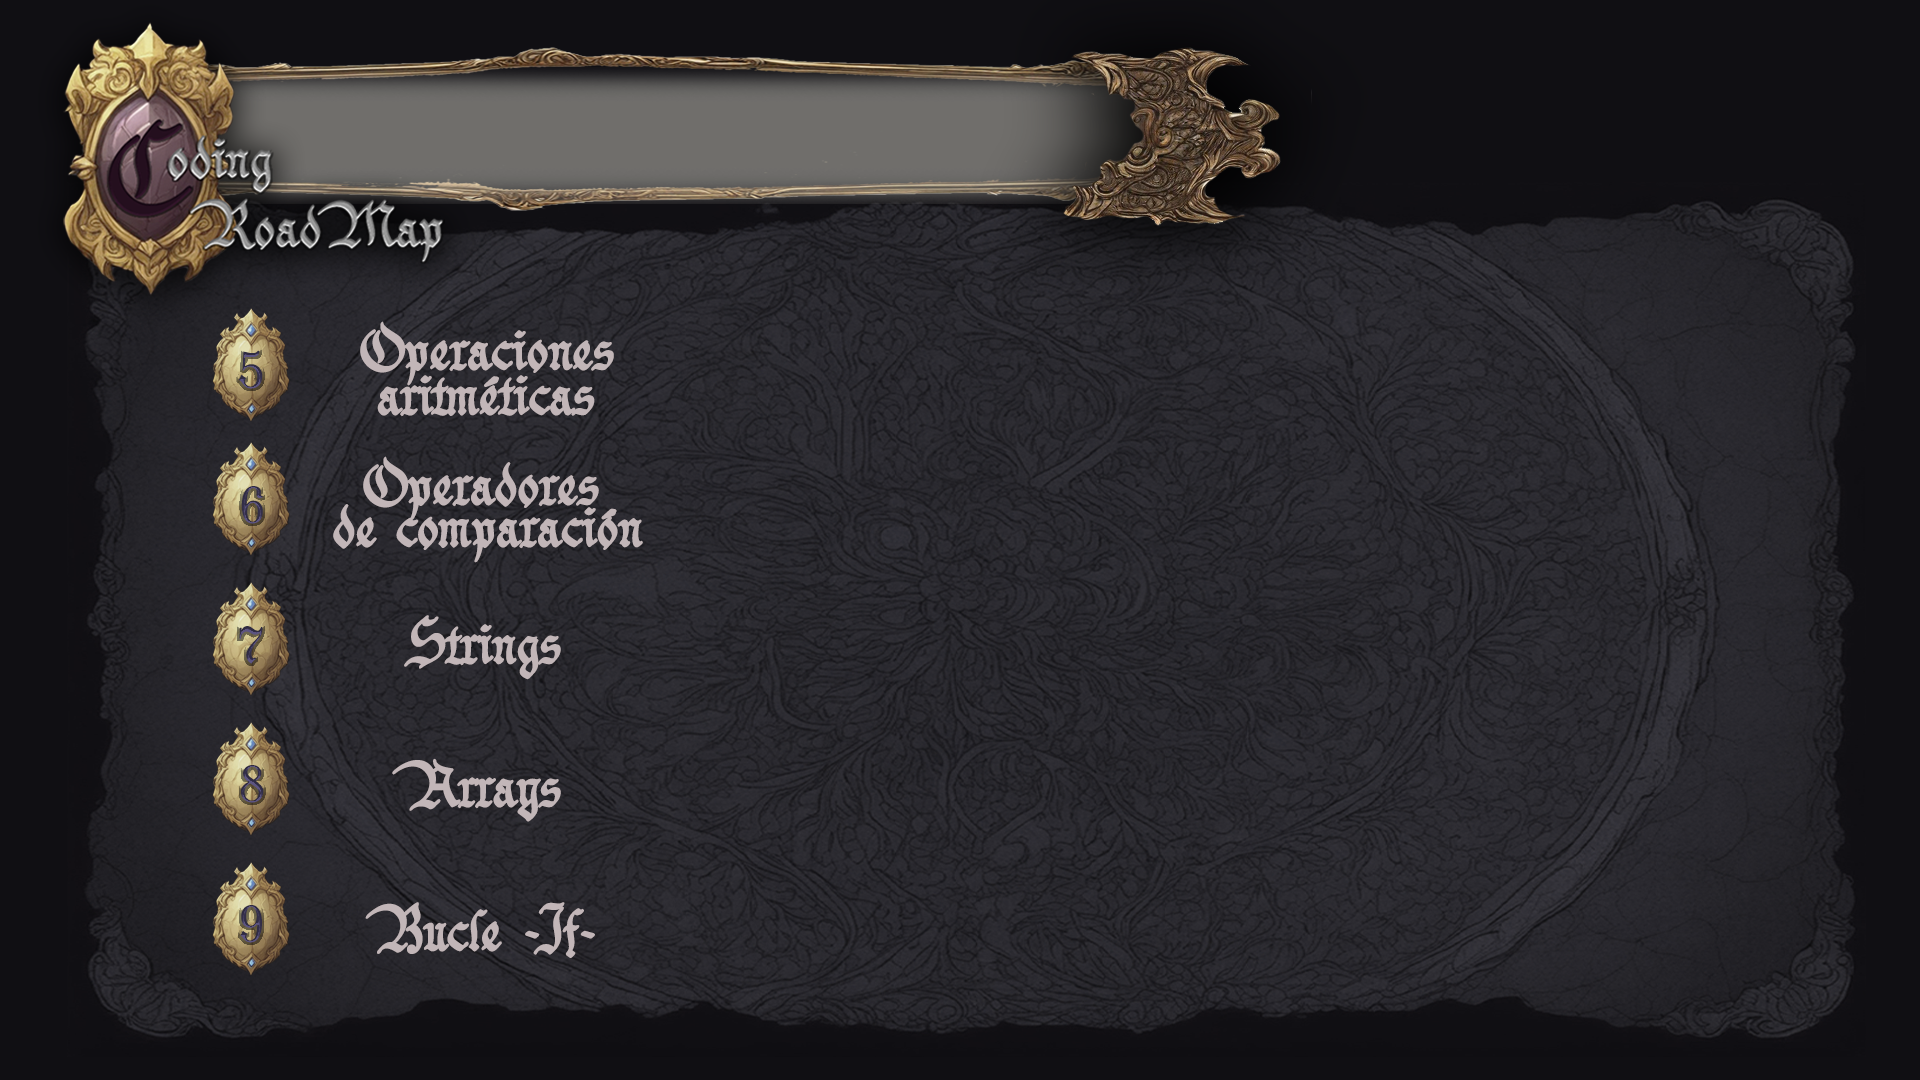
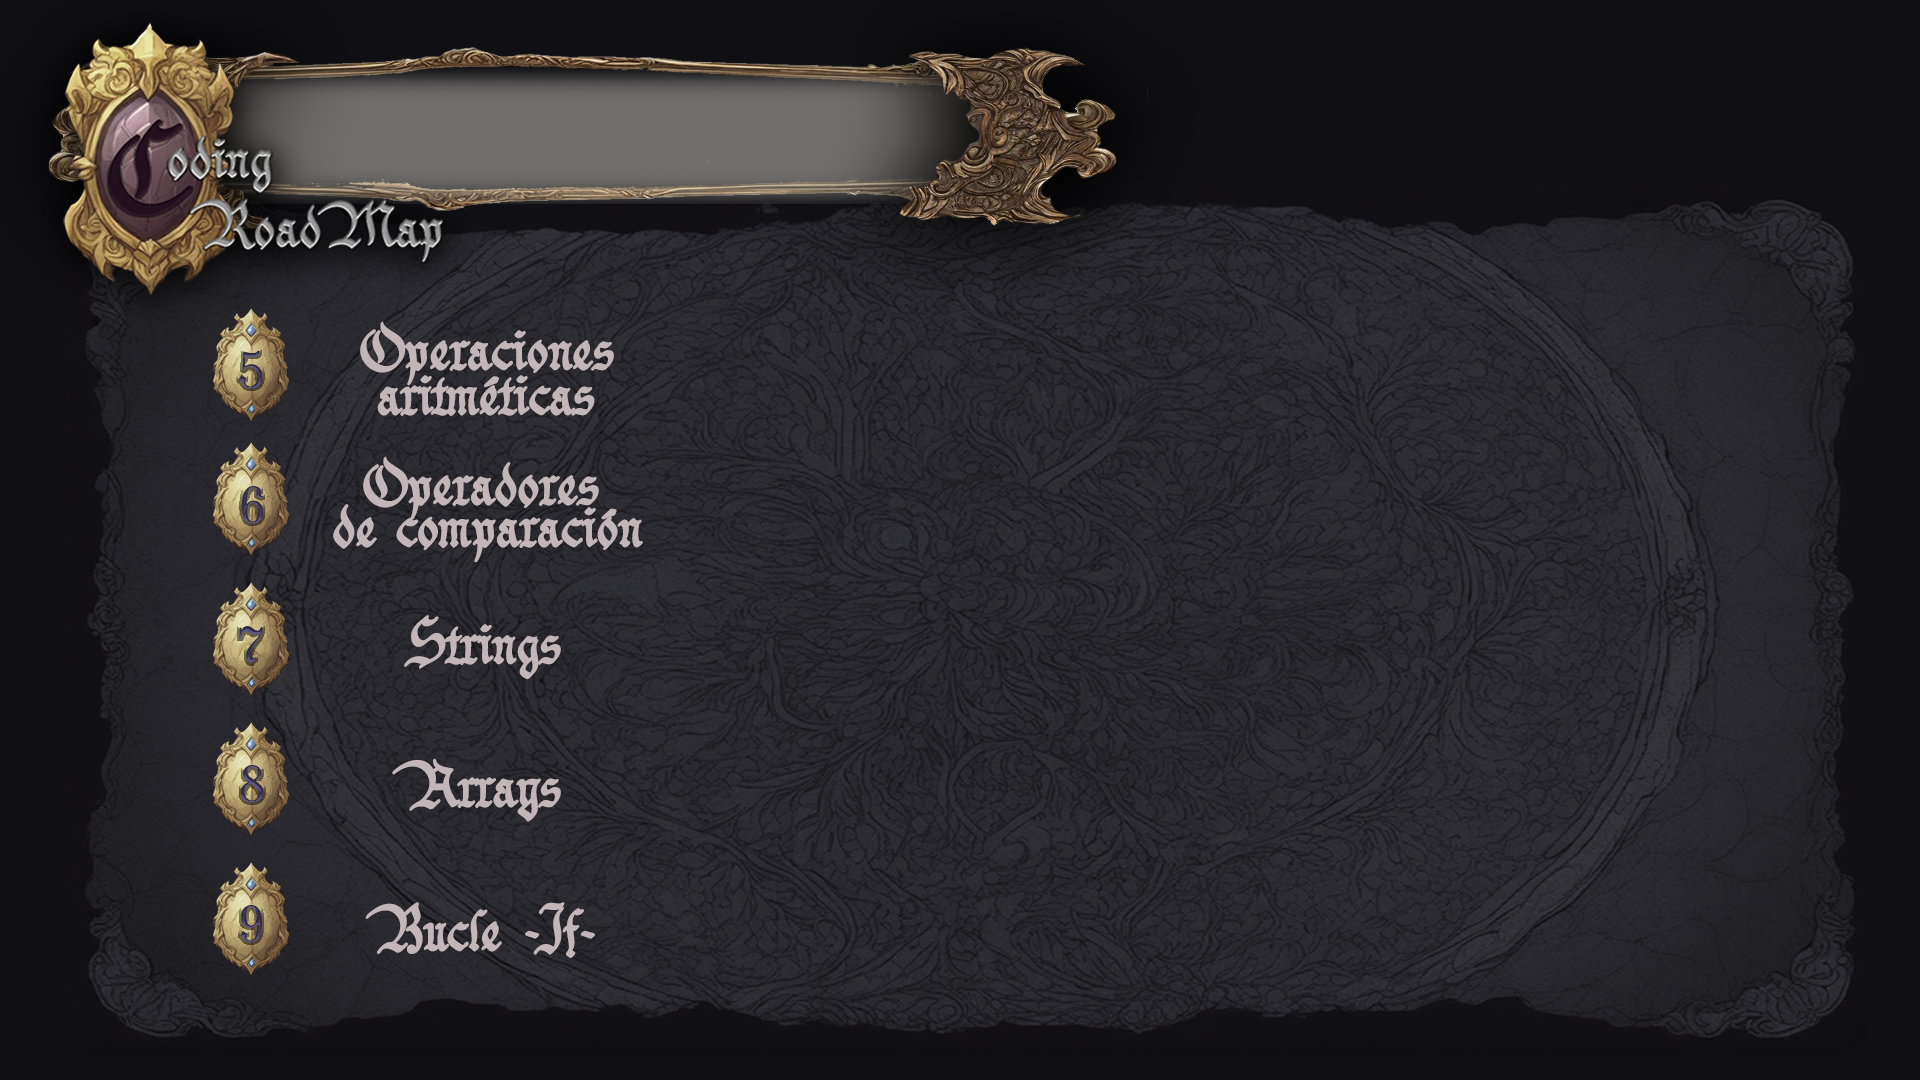
img.

Changed region(s): [[0.0938, 0.0306, 0.6875, 0.2139], [0.0312, 0.0917, 0.0625, 0.1833]]

diff --git a/ui/screens/landing.py b/ui/screens/landing.py
@@ -70,7 +70,7 @@ def draw(frame, change_screen):
                     canvas.config(cursor="")
 
                 setattr(canvas, f"image_book_{row_index}", image_book_tk)
-                book_buttom = canvas.create_image(550, 135 + row_offset, anchor=tk.NW, image=image_book_tk)
+                book_buttom = canvas.create_image(450, 100 + row_offset, anchor=tk.NW, image=image_book_tk)
                 canvas.tag_bind(book_buttom, "<Enter>", on_book_buttom_enter)
                 canvas.tag_bind(book_buttom, "<Leave>", on_book_buttom_leave)
 
@@ -151,14 +151,14 @@ def create_toggle_sound(canvas):
 
     toggle_sound_image_tk = toggle_sound_off_button_image_tk if sound_manager.is_muted else toggle_sound_button_image_tk
     setattr(canvas, "toggle_sound_button_image_tk", toggle_sound_image_tk)
-    tooltip_button = canvas.create_image(730, 90, anchor="w", image=toggle_sound_image_tk)
+    tooltip_button = canvas.create_image(500, 90, anchor="w", image=toggle_sound_image_tk)
     canvas.tag_bind(tooltip_button, '<Button-1>', lambda event: on_tooltip_button_click(tooltip_button))
     canvas.tag_bind(tooltip_button, "<Enter>", on_tooltip_button_enter)
     canvas.tag_bind(tooltip_button, "<Leave>", on_tooltip_button_leave)
 
 def create_programme(canvas):
     programme_button_image = Image.open(resource_path("assets\\images\\buttons\\header\\programme-button.png"))
-    programme_button_image = programme_button_image.resize((95, 40))
+    programme_button_image = programme_button_image.resize((85, 40))
     programme_button_image_tk = ImageTk.PhotoImage(programme_button_image)
 
     def on_programme_button_enter(event):
@@ -171,14 +171,14 @@ def create_programme(canvas):
         canvas.config(cursor="hand2")
 
     setattr(canvas, "programme_button_image_tk", programme_button_image_tk)
-    programme_button = canvas.create_image(210, 90, anchor="w", image=programme_button_image_tk)
+    programme_button = canvas.create_image(200, 90, anchor="w", image=programme_button_image_tk)
     canvas.tag_bind(programme_button, '<Button-1>', lambda event: on_programme_button_click(programme_button))
     canvas.tag_bind(programme_button, "<Enter>", on_programme_button_enter)
     canvas.tag_bind(programme_button, "<Leave>", on_programme_button_leave)
 
 def create_notes(canvas):
     notes_button_image = Image.open(resource_path("assets\\images\\buttons\\header\\notes-button.png"))
-    notes_button_image = notes_button_image.resize((77, 40))
+    notes_button_image = notes_button_image.resize((65, 50))
     notes_button_image_tk = ImageTk.PhotoImage(notes_button_image)
 
     def on_notes_button_enter(event):
@@ -191,14 +191,14 @@ def create_notes(canvas):
         canvas.config(cursor="hand2")
 
     setattr(canvas, "notes_button_image_tk", notes_button_image_tk)
-    notes_button = canvas.create_image(470, 90, anchor="w", image=notes_button_image_tk)
+    notes_button = canvas.create_image(320, 90, anchor="w", image=notes_button_image_tk)
     canvas.tag_bind(notes_button, '<Button-1>', lambda event: on_notes_button_click(notes_button))
     canvas.tag_bind(notes_button, "<Enter>", on_notes_button_enter)
     canvas.tag_bind(notes_button, "<Leave>", on_notes_button_leave)
 
 def create_library(canvas):
     library_button_image = Image.open(resource_path("assets\\images\\buttons\\header\\library-button.png"))
-    library_button_image = library_button_image.resize((77, 40))
+    library_button_image = library_button_image.resize((70, 50))
     library_button_image_tk = ImageTk.PhotoImage(library_button_image)
 
     def on_library_button_enter(event):
@@ -211,7 +211,7 @@ def create_library(canvas):
         canvas.config(cursor="hand2")
 
     setattr(canvas, "library_button_image_tk", library_button_image_tk)
-    library_button = canvas.create_image(600, 90, anchor="w", image=library_button_image_tk)
+    library_button = canvas.create_image(410, 90, anchor="w", image=library_button_image_tk)
     canvas.tag_bind(library_button, '<Button-1>', lambda event: on_library_button_click(library_button))
     canvas.tag_bind(library_button, "<Enter>", on_library_button_enter)
     canvas.tag_bind(library_button, "<Leave>", on_library_button_leave)

diff --git a/ui/screens/landing_2.py b/ui/screens/landing_2.py
@@ -114,6 +114,7 @@ def draw(frame, change_screen):
 
             row_offset += 95
         row_index += 1
+
 def create_toggle_sound(canvas):
     sound_manager = SoundManager()
     toggle_sound_button_image = Image.open(resource_path("assets\\images\\buttons\\header\\music-on-button.png"))
@@ -139,14 +140,14 @@ def create_toggle_sound(canvas):
 
     toggle_sound_image_tk = toggle_sound_off_button_image_tk if sound_manager.is_muted else toggle_sound_button_image_tk
     setattr(canvas, "toggle_sound_button_image_tk", toggle_sound_image_tk)
-    tooltip_button = canvas.create_image(730, 110, anchor="w", image=toggle_sound_image_tk)
+    tooltip_button = canvas.create_image(500, 90, anchor="w", image=toggle_sound_image_tk)
     canvas.tag_bind(tooltip_button, '<Button-1>', lambda event: on_tooltip_button_click(tooltip_button))
     canvas.tag_bind(tooltip_button, "<Enter>", on_tooltip_button_enter)
     canvas.tag_bind(tooltip_button, "<Leave>", on_tooltip_button_leave)
 
 def create_programme(canvas):
     programme_button_image = Image.open(resource_path("assets\\images\\buttons\\header\\programme-button.png"))
-    programme_button_image = programme_button_image.resize((125, 60))
+    programme_button_image = programme_button_image.resize((85, 40))
     programme_button_image_tk = ImageTk.PhotoImage(programme_button_image)
 
     def on_programme_button_enter(event):
@@ -159,14 +160,14 @@ def create_programme(canvas):
         canvas.config(cursor="hand2")
 
     setattr(canvas, "programme_button_image_tk", programme_button_image_tk)
-    programme_button = canvas.create_image(300, 110, anchor="w", image=programme_button_image_tk)
+    programme_button = canvas.create_image(200, 90, anchor="w", image=programme_button_image_tk)
     canvas.tag_bind(programme_button, '<Button-1>', lambda event: on_programme_button_click(programme_button))
     canvas.tag_bind(programme_button, "<Enter>", on_programme_button_enter)
     canvas.tag_bind(programme_button, "<Leave>", on_programme_button_leave)
 
 def create_notes(canvas):
     notes_button_image = Image.open(resource_path("assets\\images\\buttons\\header\\notes-button.png"))
-    notes_button_image = notes_button_image.resize((97, 60))
+    notes_button_image = notes_button_image.resize((65, 50))
     notes_button_image_tk = ImageTk.PhotoImage(notes_button_image)
 
     def on_notes_button_enter(event):
@@ -179,14 +180,14 @@ def create_notes(canvas):
         canvas.config(cursor="hand2")
 
     setattr(canvas, "notes_button_image_tk", notes_button_image_tk)
-    notes_button = canvas.create_image(470, 110, anchor="w", image=notes_button_image_tk)
+    notes_button = canvas.create_image(320, 90, anchor="w", image=notes_button_image_tk)
     canvas.tag_bind(notes_button, '<Button-1>', lambda event: on_notes_button_click(notes_button))
     canvas.tag_bind(notes_button, "<Enter>", on_notes_button_enter)
     canvas.tag_bind(notes_button, "<Leave>", on_notes_button_leave)
 
 def create_library(canvas):
     library_button_image = Image.open(resource_path("assets\\images\\buttons\\header\\library-button.png"))
-    library_button_image = library_button_image.resize((97, 60))
+    library_button_image = library_button_image.resize((70, 50))
     library_button_image_tk = ImageTk.PhotoImage(library_button_image)
 
     def on_library_button_enter(event):
@@ -199,7 +200,7 @@ def create_library(canvas):
         canvas.config(cursor="hand2")
 
     setattr(canvas, "library_button_image_tk", library_button_image_tk)
-    library_button = canvas.create_image(600, 110, anchor="w", image=library_button_image_tk)
+    library_button = canvas.create_image(410, 90, anchor="w", image=library_button_image_tk)
     canvas.tag_bind(library_button, '<Button-1>', lambda event: on_library_button_click(library_button))
     canvas.tag_bind(library_button, "<Enter>", on_library_button_enter)
     canvas.tag_bind(library_button, "<Leave>", on_library_button_leave)
